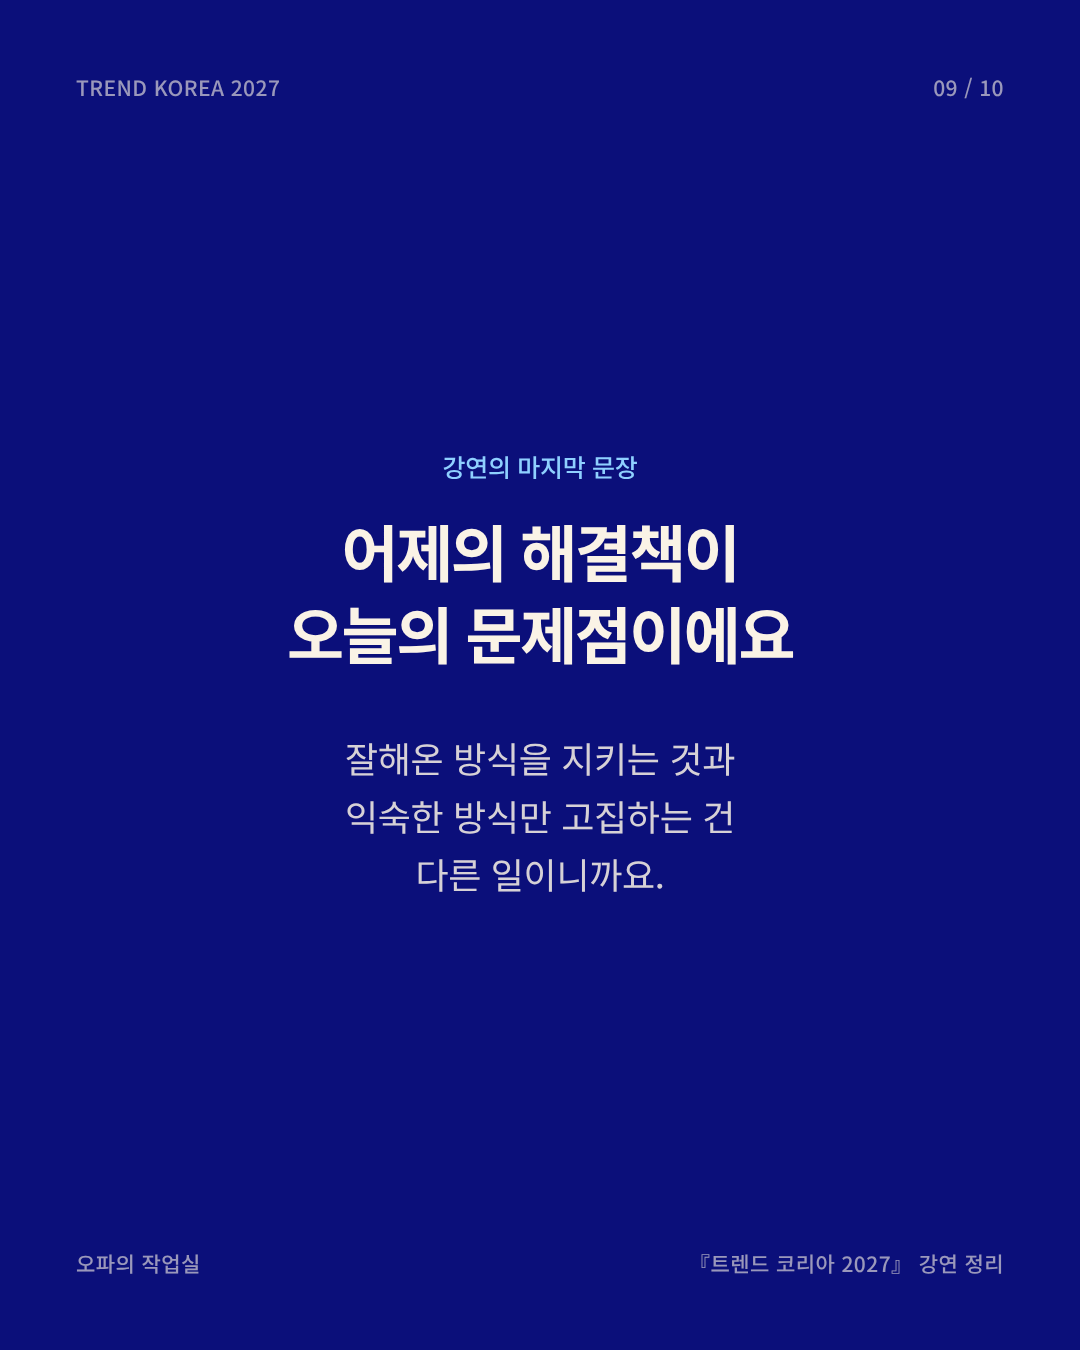
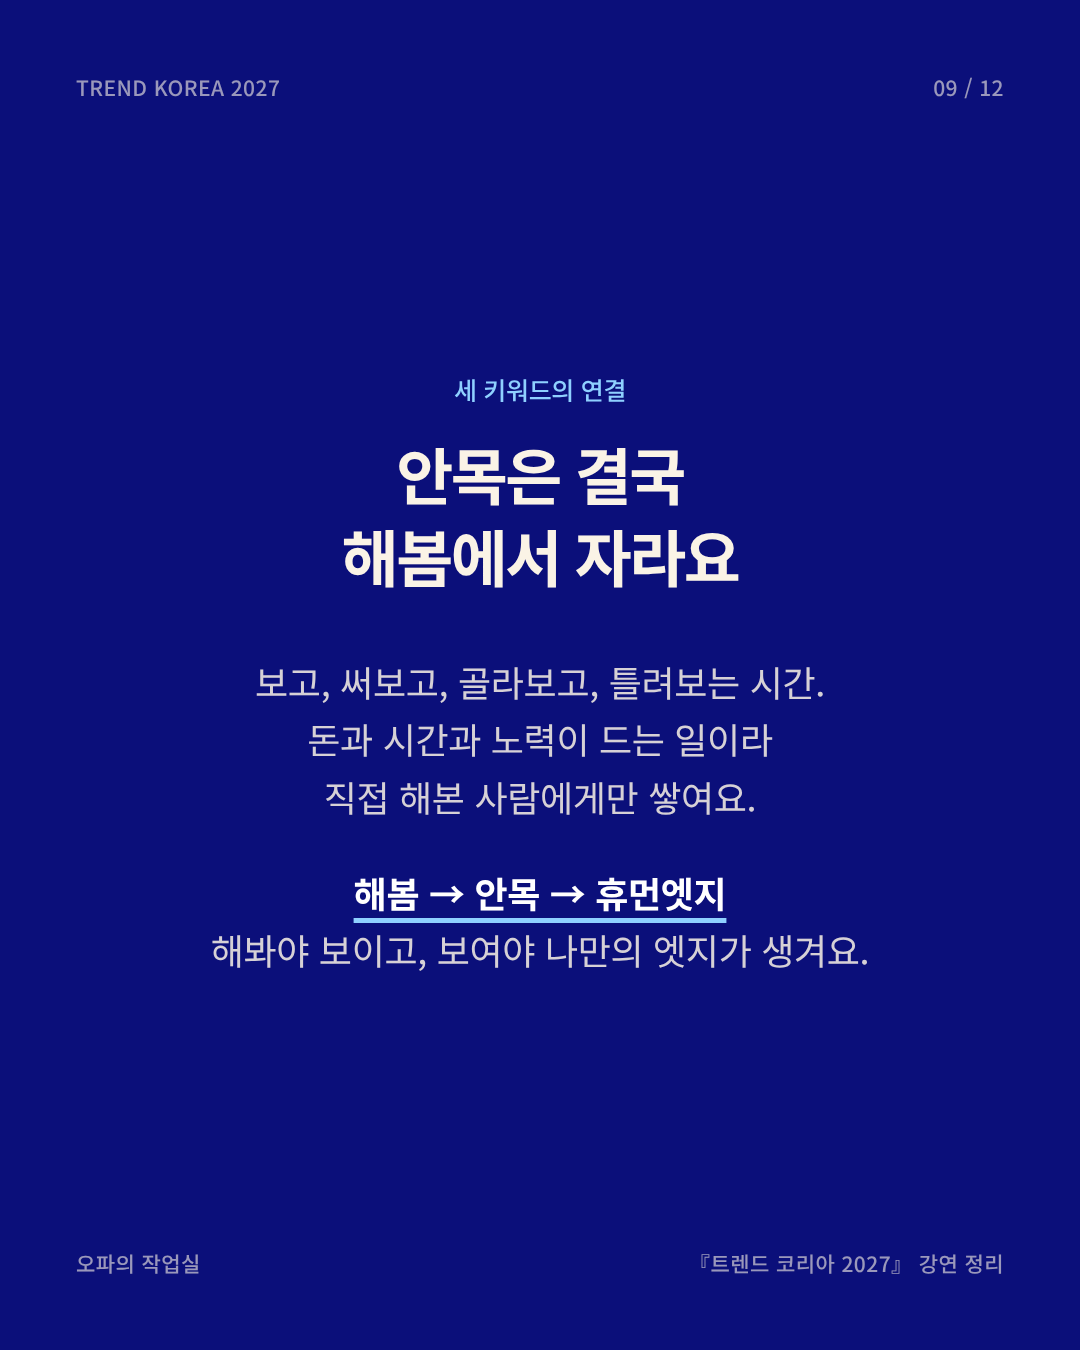
텍스트 카드 12장: 해봄경제·휴먼엣지·안목자본 중심 재구성, 안목 키우는 법과 10대 키워드 요약표 추가
Claude-Session: https://claude.ai/code/session_016hvv34jPWo253fQY5tLEVV

Changed region(s): [[0.1833, 0.28, 0.7944, 0.7156]]

diff --git a/cardnews/trend-korea-2027/text/text.html b/cardnews/trend-korea-2027/text/text.html
@@ -20,55 +20,73 @@ em { font-style: normal; font-weight: 700; color: inherit; text-decoration: unde
 .steps li, .qs li { font-size: 35px; line-height: 1.5; padding: 12px 0; color: var(--sub); font-weight: 500; }
 .steps span, .qs span { display: inline-block; width: 64px; font-size: 24px; font-weight: 700; color: var(--k); vertical-align: 4px; }
 .qs li { font-size: 32px; padding: 10px 0; }
+.steps span { width: 86px; }
+.tbl { width: 100%; text-align: left; margin-top: -16px; }
+.tr { display: grid; grid-template-columns: 64px 250px 1fr; align-items: center; padding: 14px 22px; border-bottom: 1px solid rgba(11,15,122,.12); }
+.tr b { font-size: 34px; font-weight: 700; color: var(--k); }
+.tr strong { font-size: 31px; font-weight: 700; }
+.tr span { font-size: 25px; color: var(--sub); }
+.tr.on { background: #FFFFFF; border-radius: 14px; border-bottom-color: transparent; box-shadow: 0 6px 18px -10px rgba(11,15,122,.35); }
+.tr.on b, .tr.on strong { color: #0B0F7A; }
 </style></head><body>
 <section class="card dark" id="c1">
-  <div class="top"><span>TREND KOREA 2027</span><span>01 / 10</span></div>
-  <div class="txt"><div class="k">강연에서 남은 질문</div><h2>2027 키워드에는<br>'AI'가 없어요</h2><p>1년 만에 AI가 전기처럼<br>당연한 것이 됐기 때문이에요.</p><p>이제 질문은 'AI를 쓰느냐'가 아니라<br><em>'AI 때문에 달라진 걸 어떻게 다루느냐'</em>예요.</p></div>
+  <div class="top"><span>TREND KOREA 2027</span><span>01 / 12</span></div>
+  <div class="txt"><div class="k">강연에서 남은 질문</div><h2>AI가 다 만들어주는 시대,<br>사람에게 남는 건 뭘까요?</h2><p>트렌드 코리아 2027 키워드에는 'AI'가 없어요.<br>이미 공기처럼 당연해졌으니까요.</p><p>강연이 내놓은 답은 세 가지였어요.<br><em>해봄경제 · 휴먼엣지 · 안목자본</em></p></div>
   <div class="foot"><span>오파의 작업실</span><span>『트렌드 코리아 2027』 강연 정리</span></div>
 </section>
 <section class="card light" id="c2">
-  <div class="top"><span>TREND KOREA 2027</span><span>02 / 10</span></div>
-  <div class="txt"><div class="k">01 · 바이브 워킹</div><h2>AI를 쓴다고<br>일을 잘하게 되는 건 아니에요</h2><p>보고서는 2일 → 반나절,<br>팀 프로젝트는 3개월 그대로.</p><p>병목은 AI가 아니라<br><em>일하는 방식</em>에 있어요.</p></div>
+  <div class="top"><span>TREND KOREA 2027</span><span>02 / 12</span></div>
+  <div class="txt"><div class="k">01 · 해봄경제</div><h2>완벽하게 준비하느라<br>아직 시작 못 한 일, 있나요?</h2><p>폭염에 지친 한 대학생은<br>'그늘로만 걷는 길 안내 앱'을 직접 만들었어요.</p><p>AI로 실행 비용이 거의 0이 된 지금,<br>경쟁력은 <em>무엇을 실제로 해봤는가</em>예요.</p></div>
   <div class="foot"><span>오파의 작업실</span><span>『트렌드 코리아 2027』 강연 정리</span></div>
 </section>
 <section class="card dark" id="c3">
-  <div class="top"><span>TREND KOREA 2027</span><span>03 / 10</span></div>
-  <div class="txt"><div class="k">01 · 바이브 워킹</div><h2>AI는 아직<br>신입사원이에요</h2><p>10년 손발 맞춘 동료는<br>"3년 전 그 PPT처럼" 한마디면 알아들어요.</p><p>AI도 그렇게 되려면<br><em>우리 팀의 맥락</em>부터 가르쳐야 해요.</p></div>
+  <div class="top"><span>TREND KOREA 2027</span><span>03 / 12</span></div>
+  <div class="txt"><div class="k">01 · 해봄경제</div><h2>북한산에서 가장<br>오르기 어려운 코스는?</h2><p>정답은 '우리 집 대문'이래요.</p><p>계획 → 실행이 아니라<br>실행 → 실행 → 개선.</p><p><em>해보는 사람과 안 해보는 사람</em>의<br>격차가 벌어지는 시대예요.</p></div>
   <div class="foot"><span>오파의 작업실</span><span>『트렌드 코리아 2027』 강연 정리</span></div>
 </section>
 <section class="card light" id="c4">
-  <div class="top"><span>TREND KOREA 2027</span><span>04 / 10</span></div>
-  <div class="txt"><div class="k">01 · 바이브 워킹</div><h2>우수 사례보다<br>실패 사례를 모으세요</h2><p>경진대회는 부담이라 아무도 안 내요.</p><p>"이렇게 썼더니 망했어"는<br>누구나 신나게 공유해요.</p><p>그게 쌓이면 <em>팀의 실력</em>이 돼요.</p></div>
+  <div class="top"><span>TREND KOREA 2027</span><span>04 / 12</span></div>
+  <div class="txt"><div class="k">02 · 휴먼엣지</div><h2>AI가 그렸다고 하면 혹평,<br>원본이라 하면 찬사</h2><p>AI로 그린 모네의 '수련'이라며 올리자<br>"색이 별로"라는 댓글이 달렸어요.</p><p>사실 원본이었다고 밝히자<br>"역시 색이 오묘하다"로 바뀌었죠.</p><p>결과가 같아도 사람들은<br><em>사람의 흔적</em>에 값을 매겨요.</p></div>
   <div class="foot"><span>오파의 작업실</span><span>『트렌드 코리아 2027』 강연 정리</span></div>
 </section>
 <section class="card dark" id="c5">
-  <div class="top"><span>TREND KOREA 2027</span><span>05 / 10</span></div>
-  <div class="txt"><div class="k">02 · 하프시그널</div><h2>갱년기는 끝이 아니라<br>하프타임이에요</h2><p>100세 시대, 50대는<br>인생의 딱 절반이에요.</p><p>X세대는 참지 않아요.<br>말하고, 소비하고, <em>후반전을 준비</em>해요.</p></div>
+  <div class="top"><span>TREND KOREA 2027</span><span>05 / 12</span></div>
+  <div class="txt"><div class="k">02 · 휴먼엣지</div><h2>고생한 흔적이<br>프리미엄이 돼요</h2><ol class="steps"><li><span>결정</span>"예쁘게"보다 "제 매력 포인트로"</li><li><span>과정</span>메이킹 필름을 보면 결과가 달라 보여요</li><li><span>손길</span>만지고 바르는 손끝의 즐거움</li><li><span>시간</span>오래 쓸수록 멋이 드는 가죽처럼</li></ol><p>결과만이 아니라 <em>어떻게 만들었는지</em>를 보여주세요.</p></div>
   <div class="foot"><span>오파의 작업실</span><span>『트렌드 코리아 2027』 강연 정리</span></div>
 </section>
 <section class="card light" id="c6">
-  <div class="top"><span>TREND KOREA 2027</span><span>06 / 10</span></div>
-  <div class="txt"><div class="k">02 · 하프시그널</div><h2>이제 갱년기는<br>일터의 이야기이기도 해요</h2><p>자녀 사춘기, 부부 갱년기, 부모 부양이<br>한꺼번에 오는 시기.</p><p>이케아는 배려 매뉴얼을,<br>노무라는 유급휴가를 만들었어요.</p><p><em>혼자 견디는 일에서 함께 챙기는 일로</em>.</p></div>
+  <div class="top"><span>TREND KOREA 2027</span><span>06 / 12</span></div>
+  <div class="txt"><div class="k">03 · 안목자본</div><h2>"너 감각 있다"<br>한국인이 가장 좋아하는 칭찬</h2><p>"예쁘다"보다 "안목 있다"는 말에<br>더 기뻐한대요.</p><p>AI가 매끈한 결과물을 무한히 만드는 시대,<br><em>한 끗 차이를 알아보고 고르는 눈</em>이<br>자본이 돼요.</p></div>
   <div class="foot"><span>오파의 작업실</span><span>『트렌드 코리아 2027』 강연 정리</span></div>
 </section>
 <section class="card dark" id="c7">
-  <div class="top"><span>TREND KOREA 2027</span><span>07 / 10</span></div>
-  <div class="txt"><div class="k">03 · 안목자본</div><h2>AI를 써도<br>글을 못 쓰는 이유</h2><p>좋은 글이 뭔지 모르기 때문이에요.</p><p>무엇이든 무한히 만들어지는 시대에는<br><em>고르는 눈</em>이 실력이에요.</p></div>
+  <div class="top"><span>TREND KOREA 2027</span><span>07 / 12</span></div>
+  <div class="txt"><div class="k">03 · 안목자본</div><h2>AI를 써도<br>글을 못 쓰는 이유</h2><p>좋은 글이 뭔지 모르기 때문이에요.</p><p>20대가 피부과를 고르는 3순위 기준은 '미감'.<br>대기실 인테리어와 <em>꽃병의 꽃</em>을 보고 판단해요.</p></div>
   <div class="foot"><span>오파의 작업실</span><span>『트렌드 코리아 2027』 강연 정리</span></div>
 </section>
 <section class="card light" id="c8">
-  <div class="top"><span>TREND KOREA 2027</span><span>08 / 10</span></div>
-  <div class="txt"><div class="k">03 · 안목자본</div><h2>보고 저장만 하면<br>안목은 생기지 않아요</h2><ol class="steps"><li><span>01</span>좋은 것을 많이 보고</li><li><span>02</span>내 언어로 표현하고</li><li><span>03</span>전문가의 평가와 비교하고</li><li><span>04</span>오래 반복하기</li></ol><p>촌스러워도, 틀려도 괜찮아요.</p></div>
+  <div class="top"><span>TREND KOREA 2027</span><span>08 / 12</span></div>
+  <div class="txt"><div class="k">03 · 안목자본</div><h2>그럼 안목은<br>어떻게 키울까요?</h2><ol class="steps"><li><span>01</span>좋은 것을 많이 보고</li><li><span>02</span>사진만 찍지 말고 내 언어로 표현하고</li><li><span>03</span>전문가의 평가와 비교해 보고</li><li><span>04</span>오래 반복하기</li></ol><p>촌스러워도, 틀려도 괜찮아요.<br>일단 <em>말로 꺼내는 게</em> 시작이에요.</p></div>
   <div class="foot"><span>오파의 작업실</span><span>『트렌드 코리아 2027』 강연 정리</span></div>
 </section>
 <section class="card dark" id="c9">
-  <div class="top"><span>TREND KOREA 2027</span><span>09 / 10</span></div>
-  <div class="txt"><div class="k">강연의 마지막 문장</div><h2>어제의 해결책이<br>오늘의 문제점이에요</h2><p>잘해온 방식을 지키는 것과<br>익숙한 방식만 고집하는 건<br>다른 일이니까요.</p></div>
+  <div class="top"><span>TREND KOREA 2027</span><span>09 / 12</span></div>
+  <div class="txt"><div class="k">세 키워드의 연결</div><h2>안목은 결국<br>해봄에서 자라요</h2><p>보고, 써보고, 골라보고, 틀려보는 시간.<br>돈과 시간과 노력이 드는 일이라<br>직접 해본 사람에게만 쌓여요.</p><p><em>해봄 → 안목 → 휴먼엣지</em><br>해봐야 보이고, 보여야 나만의 엣지가 생겨요.</p></div>
   <div class="foot"><span>오파의 작업실</span><span>『트렌드 코리아 2027』 강연 정리</span></div>
 </section>
 <section class="card light" id="c10">
-  <div class="top"><span>TREND KOREA 2027</span><span>10 / 10</span></div>
-  <div class="txt"><div class="k">나를 위한 체크리스트</div><h2>2027년을 앞두고<br>나에게 던져볼 5가지 질문</h2><ol class="qs"><li><span>01</span>AI를 쓰면서도 그대로인 일하는 방식은?</li><li><span>02</span>우리 팀이 AI에게 가르쳐야 할 맥락은?</li><li><span>03</span>이번 달 모아둔 실패 사례는?</li><li><span>04</span>내 인생의 후반전, 무엇을 준비하고 있나?</li><li><span>05</span>최근 '좋다'고 느낀 걸 내 언어로 설명할 수 있나?</li></ol><p>저장해두고 내년 기획 전에 다시 꺼내 보세요.</p></div>
+  <div class="top"><span>TREND KOREA 2027</span><span>10 / 12</span></div>
+  <div class="txt"><div class="k">브랜드에게</div><h2>고객의 안목을<br>인정해 주세요</h2><p>"이 차이를 알아보셨네요."</p><p>안목을 인정받은 고객이<br>자발적으로 <em>브랜드를 알리는 프로모터</em>가 돼요.</p></div>
+  <div class="foot"><span>오파의 작업실</span><span>『트렌드 코리아 2027』 강연 정리</span></div>
+</section>
+<section class="card dark" id="c11">
+  <div class="top"><span>TREND KOREA 2027</span><span>11 / 12</span></div>
+  <div class="txt"><div class="k">강연의 마지막 문장</div><h2>어제의 해결책이<br>오늘의 문제점이에요</h2><p>잘해온 방식을 지키는 것과<br>익숙한 방식만 고집하는 건<br>다른 일이니까요.</p></div>
+  <div class="foot"><span>오파의 작업실</span><span>『트렌드 코리아 2027』 강연 정리</span></div>
+</section>
+<section class="card light" id="c12">
+  <div class="top"><span>TREND KOREA 2027</span><span>12 / 12</span></div>
+  <div class="txt"><div class="k">저장용 한 장 요약</div><h2>트렌드 코리아 2027<br>ALPHA SHEEP</h2><div class="tbl"><div class="tr"><b>A</b><strong>권태사회</strong><span>넘치는 자극 속 무료함</span></div><div class="tr"><b>L</b><strong>라이프 ROI</strong><span>모든 선택을 수익률로</span></div><div class="tr"><b>P</b><strong>폼팩터 시프트</strong><span>기능은 그대로, 형태를 바꾸다</span></div><div class="tr on"><b>H</b><strong>해봄경제</strong><span>완벽보다 완료, 일단 해본다</span></div><div class="tr"><b>A</b><strong>저장인류</strong><span>일단 저장하고 나중에 고른다</span></div><div class="tr"><b>S</b><strong>바이브 워킹</strong><span>사람과 AI가 한 팀처럼</span></div><div class="tr"><b>H</b><strong>리:텐션 전략</strong><span>붙잡기보다 돌아올 이유를</span></div><div class="tr on"><b>E</b><strong>휴먼엣지</strong><span>결과보다 사람의 흔적</span></div><div class="tr"><b>E</b><strong>하프시그널</strong><span>갱년기는 후반전의 신호</span></div><div class="tr on"><b>P</b><strong>안목자본</strong><span>좋은 것을 알아보는 눈</span></div></div></div>
   <div class="foot"><span>오파의 작업실</span><span>『트렌드 코리아 2027』 강연 정리</span></div>
 </section>
 </body></html>

diff --git a/cardnews/trend-korea-2027/text/build.py b/cardnews/trend-korea-2027/text/build.py
@@ -3,39 +3,49 @@
 import re
 
 SLIDES = [
-    dict(k='강연에서 남은 질문', t="2027 키워드에는\n'AI'가 없어요",
-         b=["1년 만에 AI가 전기처럼\n당연한 것이 됐기 때문이에요.",
-            "이제 질문은 'AI를 쓰느냐'가 아니라\n[['AI 때문에 달라진 걸 어떻게 다루느냐']]예요."]),
-    dict(k='01 · 바이브 워킹', t='AI를 쓴다고\n일을 잘하게 되는 건 아니에요',
-         b=['보고서는 2일 → 반나절,\n팀 프로젝트는 3개월 그대로.',
-            '병목은 AI가 아니라\n[[일하는 방식]]에 있어요.']),
-    dict(k='01 · 바이브 워킹', t='AI는 아직\n신입사원이에요',
-         b=['10년 손발 맞춘 동료는\n"3년 전 그 PPT처럼" 한마디면 알아들어요.',
-            'AI도 그렇게 되려면\n[[우리 팀의 맥락]]부터 가르쳐야 해요.']),
-    dict(k='01 · 바이브 워킹', t='우수 사례보다\n실패 사례를 모으세요',
-         b=['경진대회는 부담이라 아무도 안 내요.',
-            '"이렇게 썼더니 망했어"는\n누구나 신나게 공유해요.',
-            '그게 쌓이면 [[팀의 실력]]이 돼요.']),
-    dict(k='02 · 하프시그널', t='갱년기는 끝이 아니라\n하프타임이에요',
-         b=['100세 시대, 50대는\n인생의 딱 절반이에요.',
-            'X세대는 참지 않아요.\n말하고, 소비하고, [[후반전을 준비]]해요.']),
-    dict(k='02 · 하프시그널', t='이제 갱년기는\n일터의 이야기이기도 해요',
-         b=['자녀 사춘기, 부부 갱년기, 부모 부양이\n한꺼번에 오는 시기.',
-            '이케아는 배려 매뉴얼을,\n노무라는 유급휴가를 만들었어요.',
-            '[[혼자 견디는 일에서 함께 챙기는 일로]].']),
+    dict(k='강연에서 남은 질문', t='AI가 다 만들어주는 시대,\n사람에게 남는 건 뭘까요?',
+         b=["트렌드 코리아 2027 키워드에는 'AI'가 없어요.\n이미 공기처럼 당연해졌으니까요.",
+            '강연이 내놓은 답은 세 가지였어요.\n[[해봄경제 · 휴먼엣지 · 안목자본]]']),
+    dict(k='01 · 해봄경제', t='완벽하게 준비하느라\n아직 시작 못 한 일, 있나요?',
+         b=["폭염에 지친 한 대학생은\n'그늘로만 걷는 길 안내 앱'을 직접 만들었어요.",
+            'AI로 실행 비용이 거의 0이 된 지금,\n경쟁력은 [[무엇을 실제로 해봤는가]]예요.']),
+    dict(k='01 · 해봄경제', t='북한산에서 가장\n오르기 어려운 코스는?',
+         b=["정답은 '우리 집 대문'이래요.",
+            '계획 → 실행이 아니라\n실행 → 실행 → 개선.',
+            '[[해보는 사람과 안 해보는 사람]]의\n격차가 벌어지는 시대예요.']),
+    dict(k='02 · 휴먼엣지', t='AI가 그렸다고 하면 혹평,\n원본이라 하면 찬사',
+         b=["AI로 그린 모네의 '수련'이라며 올리자\n\"색이 별로\"라는 댓글이 달렸어요.",
+            '사실 원본이었다고 밝히자\n\"역시 색이 오묘하다\"로 바뀌었죠.',
+            '결과가 같아도 사람들은\n[[사람의 흔적]]에 값을 매겨요.']),
+    dict(k='02 · 휴먼엣지', t='고생한 흔적이\n프리미엄이 돼요',
+         steps=[('결정', '"예쁘게"보다 "제 매력 포인트로"'), ('과정', '메이킹 필름을 보면 결과가 달라 보여요'),
+                ('손길', '만지고 바르는 손끝의 즐거움'), ('시간', '오래 쓸수록 멋이 드는 가죽처럼')],
+         b=['결과만이 아니라 [[어떻게 만들었는지]]를 보여주세요.']),
+    dict(k='03 · 안목자본', t='"너 감각 있다"\n한국인이 가장 좋아하는 칭찬',
+         b=['"예쁘다"보다 "안목 있다"는 말에\n더 기뻐한대요.',
+            'AI가 매끈한 결과물을 무한히 만드는 시대,\n[[한 끗 차이를 알아보고 고르는 눈]]이\n자본이 돼요.']),
     dict(k='03 · 안목자본', t='AI를 써도\n글을 못 쓰는 이유',
          b=['좋은 글이 뭔지 모르기 때문이에요.',
-            '무엇이든 무한히 만들어지는 시대에는\n[[고르는 눈]]이 실력이에요.']),
-    dict(k='03 · 안목자본', t='보고 저장만 하면\n안목은 생기지 않아요',
-         steps=['좋은 것을 많이 보고', '내 언어로 표현하고', '전문가의 평가와 비교하고', '오래 반복하기'],
-         b=['촌스러워도, 틀려도 괜찮아요.']),
+            "20대가 피부과를 고르는 3순위 기준은 '미감'.\n대기실 인테리어와 [[꽃병의 꽃]]을 보고 판단해요."]),
+    dict(k='03 · 안목자본', t='그럼 안목은\n어떻게 키울까요?',
+         steps=[('01', '좋은 것을 많이 보고'), ('02', '사진만 찍지 말고 내 언어로 표현하고'),
+                ('03', '전문가의 평가와 비교해 보고'), ('04', '오래 반복하기')],
+         b=['촌스러워도, 틀려도 괜찮아요.\n일단 [[말로 꺼내는 게]] 시작이에요.']),
+    dict(k='세 키워드의 연결', t='안목은 결국\n해봄에서 자라요',
+         b=['보고, 써보고, 골라보고, 틀려보는 시간.\n돈과 시간과 노력이 드는 일이라\n직접 해본 사람에게만 쌓여요.',
+            '[[해봄 → 안목 → 휴먼엣지]]\n해봐야 보이고, 보여야 나만의 엣지가 생겨요.']),
+    dict(k='브랜드에게', t='고객의 안목을\n인정해 주세요',
+         b=['"이 차이를 알아보셨네요."',
+            '안목을 인정받은 고객이\n자발적으로 [[브랜드를 알리는 프로모터]]가 돼요.']),
     dict(k='강연의 마지막 문장', t='어제의 해결책이\n오늘의 문제점이에요',
          b=['잘해온 방식을 지키는 것과\n익숙한 방식만 고집하는 건\n다른 일이니까요.']),
-    dict(k='나를 위한 체크리스트', t='2027년을 앞두고\n나에게 던져볼 5가지 질문',
-         qs=['AI를 쓰면서도 그대로인 일하는 방식은?', '우리 팀이 AI에게 가르쳐야 할 맥락은?',
-             '이번 달 모아둔 실패 사례는?', '내 인생의 후반전, 무엇을 준비하고 있나?',
-             "최근 '좋다'고 느낀 걸 내 언어로 설명할 수 있나?"],
-         b=['저장해두고 내년 기획 전에 다시 꺼내 보세요.']),
+    dict(k='저장용 한 장 요약', t='트렌드 코리아 2027\nALPHA SHEEP',
+         table=[('A', '권태사회', '넘치는 자극 속 무료함'), ('L', '라이프 ROI', '모든 선택을 수익률로'),
+                ('P', '폼팩터 시프트', '기능은 그대로, 형태를 바꾸다'), ('H', '해봄경제', '완벽보다 완료, 일단 해본다', 1),
+                ('A', '저장인류', '일단 저장하고 나중에 고른다'), ('S', '바이브 워킹', '사람과 AI가 한 팀처럼'),
+                ('H', '리:텐션 전략', '붙잡기보다 돌아올 이유를'), ('E', '휴먼엣지', '결과보다 사람의 흔적', 1),
+                ('E', '하프시그널', '갱년기는 후반전의 신호'), ('P', '안목자본', '좋은 것을 알아보는 눈', 1)],
+         b=[]),
 ]
 
 
@@ -50,7 +60,11 @@ for i, s in enumerate(SLIDES, 1):
     tone = 'dark' if i % 2 else 'light'
     parts = [f'<div class="k">{s["k"]}</div>', f'<h2>{fmt(s["t"])}</h2>']
     if 'steps' in s:
-        parts.append('<ol class="steps">' + ''.join(f'<li><span>{j:02d}</span>{x}</li>' for j, x in enumerate(s['steps'], 1)) + '</ol>')
+        parts.append('<ol class="steps">' + ''.join(f'<li><span>{a}</span>{x}</li>' for a, x in s['steps']) + '</ol>')
+    if 'table' in s:
+        parts.append('<div class="tbl">' + ''.join(
+            f'<div class="tr{" on" if len(r) > 3 else ""}"><b>{r[0]}</b><strong>{r[1]}</strong><span>{r[2]}</span></div>'
+            for r in s['table']) + '</div>')
     if 'qs' in s:
         parts.append('<ol class="qs">' + ''.join(f'<li><span>{j:02d}</span>{x}</li>' for j, x in enumerate(s['qs'], 1)) + '</ol>')
     parts += [f'<p>{fmt(p)}</p>' for p in s['b']]
@@ -82,6 +96,14 @@ em {{ font-style: normal; font-weight: 700; color: inherit; text-decoration: und
 .steps li, .qs li {{ font-size: 35px; line-height: 1.5; padding: 12px 0; color: var(--sub); font-weight: 500; }}
 .steps span, .qs span {{ display: inline-block; width: 64px; font-size: 24px; font-weight: 700; color: var(--k); vertical-align: 4px; }}
 .qs li {{ font-size: 32px; padding: 10px 0; }}
+.steps span {{ width: 86px; }}
+.tbl {{ width: 100%; text-align: left; margin-top: -16px; }}
+.tr {{ display: grid; grid-template-columns: 64px 250px 1fr; align-items: center; padding: 14px 22px; border-bottom: 1px solid rgba(11,15,122,.12); }}
+.tr b {{ font-size: 34px; font-weight: 700; color: var(--k); }}
+.tr strong {{ font-size: 31px; font-weight: 700; }}
+.tr span {{ font-size: 25px; color: var(--sub); }}
+.tr.on {{ background: #FFFFFF; border-radius: 14px; border-bottom-color: transparent; box-shadow: 0 6px 18px -10px rgba(11,15,122,.35); }}
+.tr.on b, .tr.on strong {{ color: #0B0F7A; }}
 </style></head><body>
 {chr(10).join(cards)}
 </body></html>''')
